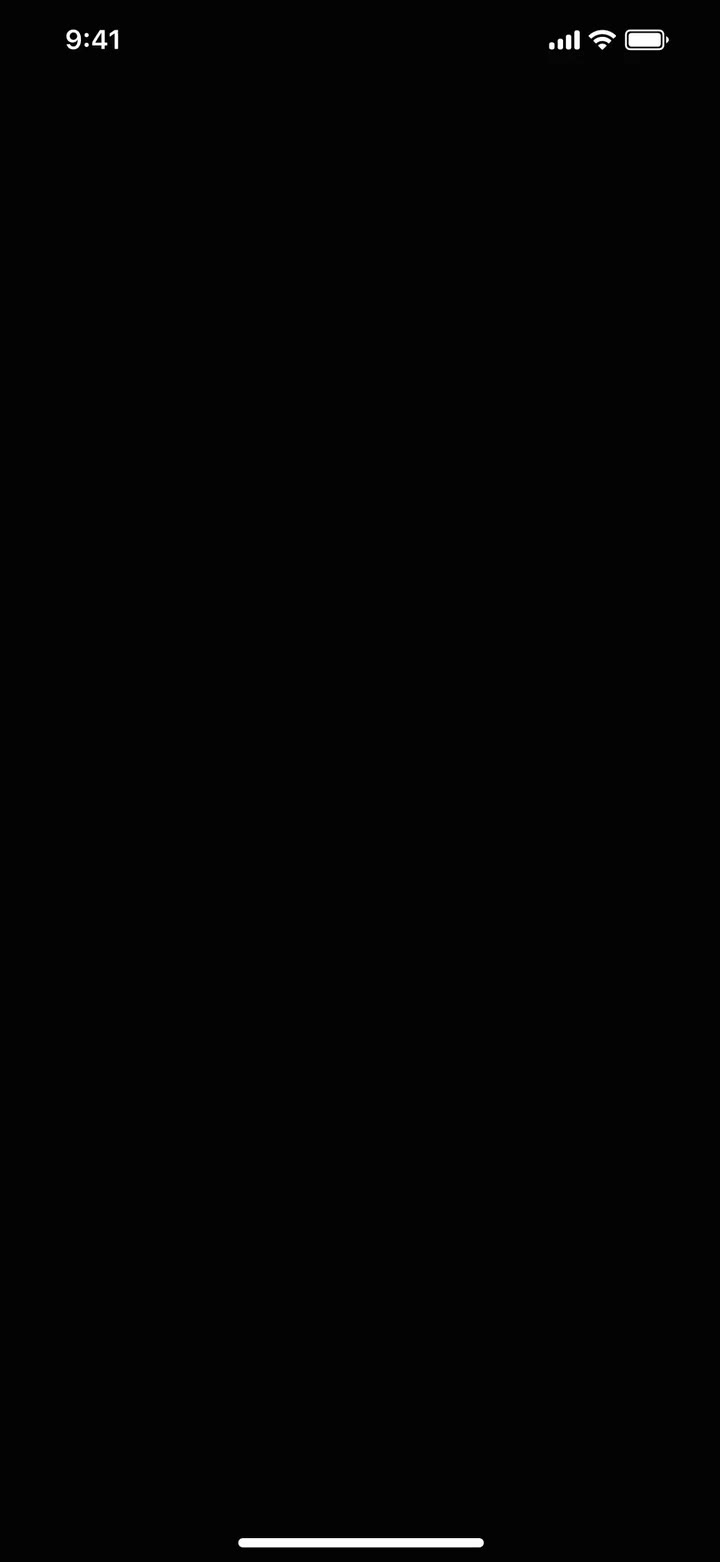
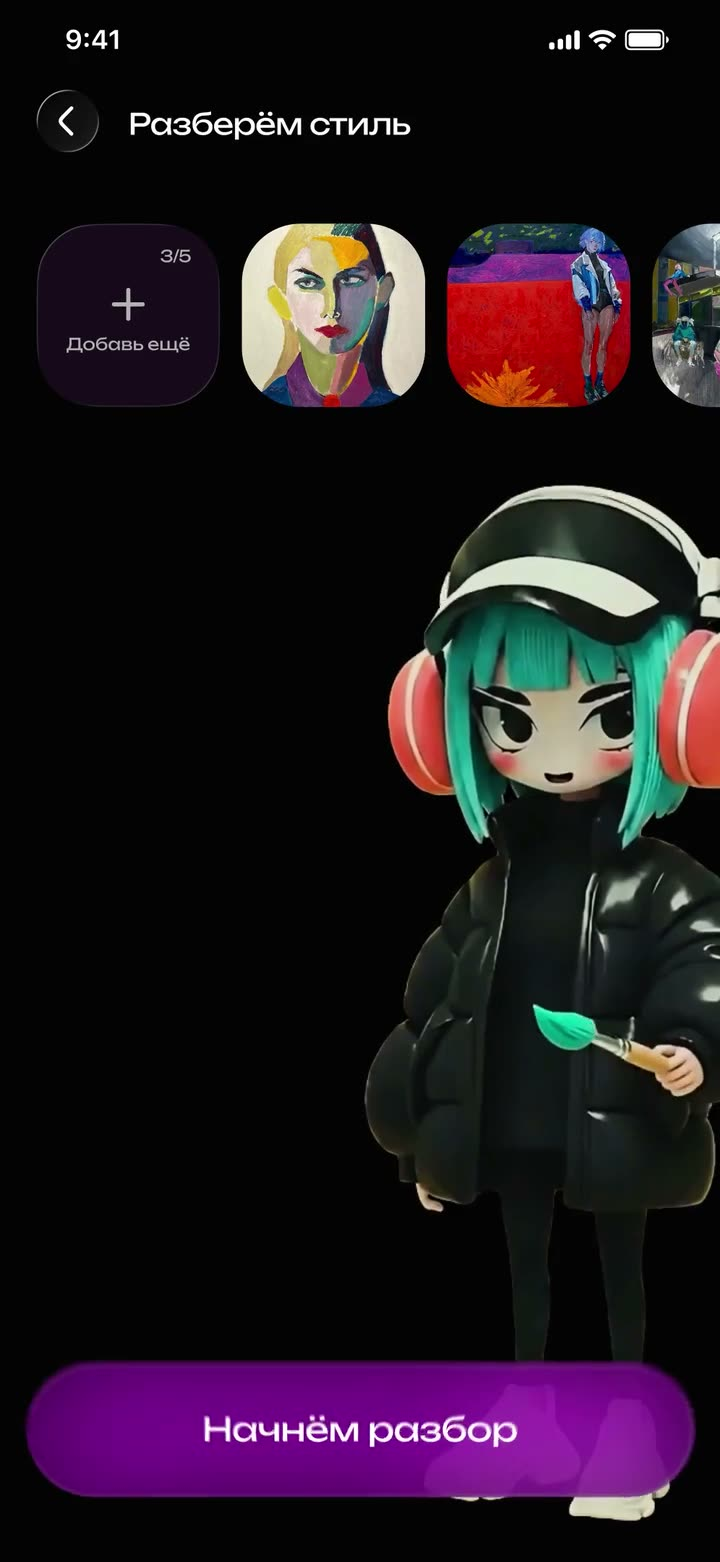
Show content frames before home videos play and preload them on desktop
Each project video now has a content-rich still (ARTIFACT result screen,
AI Producer prompt edit, TAYA style review) under the video, starts
playback from that same moment, and fades in once frames arrive. On
desktop the three videos start loading right after page load, so fast
scroll captures (Foliobin previews) show them playing instead of black
screens and intros.

diff --git a/src/App.jsx b/src/App.jsx
@@ -59,6 +59,7 @@ function AutoVideo({
   autoPlay = false,
   rootMargin = "120px 0px",
   mediaRef,
+  startAt = 0,
 }) {
   const localRef = useRef(null);
   const videoRef = mediaRef ?? localRef;
@@ -67,8 +68,27 @@ function AutoVideo({
     const video = videoRef.current;
     if (!video) return undefined;
 
-    return manageVideoPlayback(video, video, { rootMargin });
-  }, [src, rootMargin]);
+    // На вебе ролики проектов подгружаются заранее, чтобы при прокрутке
+    // сразу играть, а не показывать заглушку. На телефоне бережём трафик.
+    const warmUp = preload === "none" && window.matchMedia("(min-width: 900px)").matches;
+    return manageVideoPlayback(video, video, { rootMargin: warmUp ? "2400px 0px" : rootMargin });
+  }, [src, rootMargin, preload]);
+
+  // Видео стартует с того же кадра, что стоит заглушкой, — без прыжка
+  // к заставке ролика. Дальше цикл идёт как обычно, с начала.
+  useEffect(() => {
+    const video = videoRef.current;
+    if (!video || !startAt) return undefined;
+    const seek = () => {
+      if (video.duration > startAt) video.currentTime = startAt;
+    };
+    if (video.readyState >= 1) {
+      seek();
+      return undefined;
+    }
+    video.addEventListener("loadedmetadata", seek, { once: true });
+    return () => video.removeEventListener("loadedmetadata", seek);
+  }, [src, startAt]);
 
   return (
     <video
@@ -259,7 +279,7 @@ function RhythmDot({ className = "" }) {
   return <span className={`rhythm-dot ${className}`.trim()} aria-hidden="true">•</span>;
 }
 
-function PhoneMockup({ src, label, variant = "default", staticSrc, preload = "none", rootMargin = "160px 0px", sound = false }) {
+function PhoneMockup({ src, label, variant = "default", staticSrc, preload = "none", rootMargin = "160px 0px", sound = false, startAt = 0 }) {
   const videoRef = useRef(null);
   return (
     <div className={`phone-stage phone-stage--${variant}`}>
@@ -273,6 +293,7 @@ function PhoneMockup({ src, label, variant = "default", staticSrc, preload = "no
           autoPlay={preload === "auto"}
           rootMargin={rootMargin}
           mediaRef={videoRef}
+          startAt={startAt}
         />
         {sound && <SoundButton videoRef={videoRef} />}
       </div>
@@ -288,6 +309,7 @@ function ArtifactProject() {
         <PhoneMockup
           src={homeAssets.artifact}
           staticSrc={homeAssets.artifactStill}
+          startAt={27}
           preload="none"
           label="Аниматик приложения ARTIFACT"
         />
@@ -320,6 +342,7 @@ function BrowserMockup() {
           preload="none"
           rootMargin="180px 0px"
           mediaRef={videoRef}
+          startAt={18}
         />
         <SoundButton videoRef={videoRef} />
       </div>
@@ -350,7 +373,7 @@ function TayaProject() {
   return (
     <article className="home-project home-project--taya">
       <div className="home-project-media home-project-media--phone">
-        <PhoneMockup src={homeAssets.taya} staticSrc={homeAssets.tayaPoster} rootMargin="800px 0px" label="Аниматик экрана TAYA AI" variant="taya" sound />
+        <PhoneMockup src={homeAssets.taya} staticSrc={homeAssets.tayaPoster} rootMargin="800px 0px" label="Аниматик экрана TAYA AI" variant="taya" sound startAt={13} />
       </div>
       <div className="home-project-info">
         <ProjectHeader disabled title="Taya AI" tags={["Concept", "Design & Research"]} />

diff --git a/src/home.css b/src/home.css
@@ -353,11 +353,14 @@ a:focus-visible {
   transform: translateZ(0);
 }
 
+/* Кадр-заглушка лежит под видео и виден, пока видео не заиграло: вместо
+   чёрного экрана или заставки сразу показывается содержательный экран.
+   Видео проявляется поверх, когда пошли кадры (media-playback.js). */
 .phone-still {
-  display: none;
+  display: block;
   position: absolute;
   inset: 0;
-  z-index: 1;
+  z-index: 0;
   width: 100%;
   height: 100%;
   max-width: none;
@@ -366,7 +369,13 @@ a:focus-visible {
 
 .phone-motion {
   position: relative;
-  z-index: 0;
+  z-index: 1;
+  opacity: 0;
+  transition: opacity 240ms ease;
+}
+
+.phone-motion[data-video-playing="true"] {
+  opacity: 1;
 }
 
 .phone-stage--taya .phone-screen {
@@ -1320,14 +1329,6 @@ a:focus-visible {
     aspect-ratio: 358 / 747;
   }
 
-  .home-project--artifact .phone-still {
-    display: none;
-  }
-
-  .home-project--artifact .phone-motion {
-    display: block;
-  }
-
   .phone-screen {
     --phone-screen-radius: clamp(28px, 15.28vw, 58.679px);
   }
@@ -1586,8 +1587,6 @@ a:focus-visible {
   -webkit-appearance: none;
 }
 
-.phone-stage--taya .phone-motion { opacity: 0; }
-.phone-stage--taya .phone-motion[data-video-playing="true"] { opacity: 1; }
 .phone-stage--taya video::-webkit-media-controls-start-playback-button { display: none !important; }
 
 /* Узкий экран: отступ между названием и тегами сжимается вместе с пайпами. */

diff --git a/src/home-assets.js b/src/home-assets.js
@@ -1,7 +1,7 @@
 import avatarPoster from "../assets/home/hero-portrait-poster.jpg";
 import avatar from "../assets/home/hero-portrait.mp4";
 import artifact from "../assets/home/artifact-screen-source30.mp4";
-import artifactStill from "../assets/home/artifact-screen-static.png";
+import artifactStill from "../assets/home/artifact-poster.jpg";
 import aiProducer from "../assets/home/ai-producer-screen-web.mp4";
 import aiProducerPoster from "../assets/home/ai-producer-screen-poster.jpg";
 import tayaPoster from "../assets/home/taya-poster.jpg";
